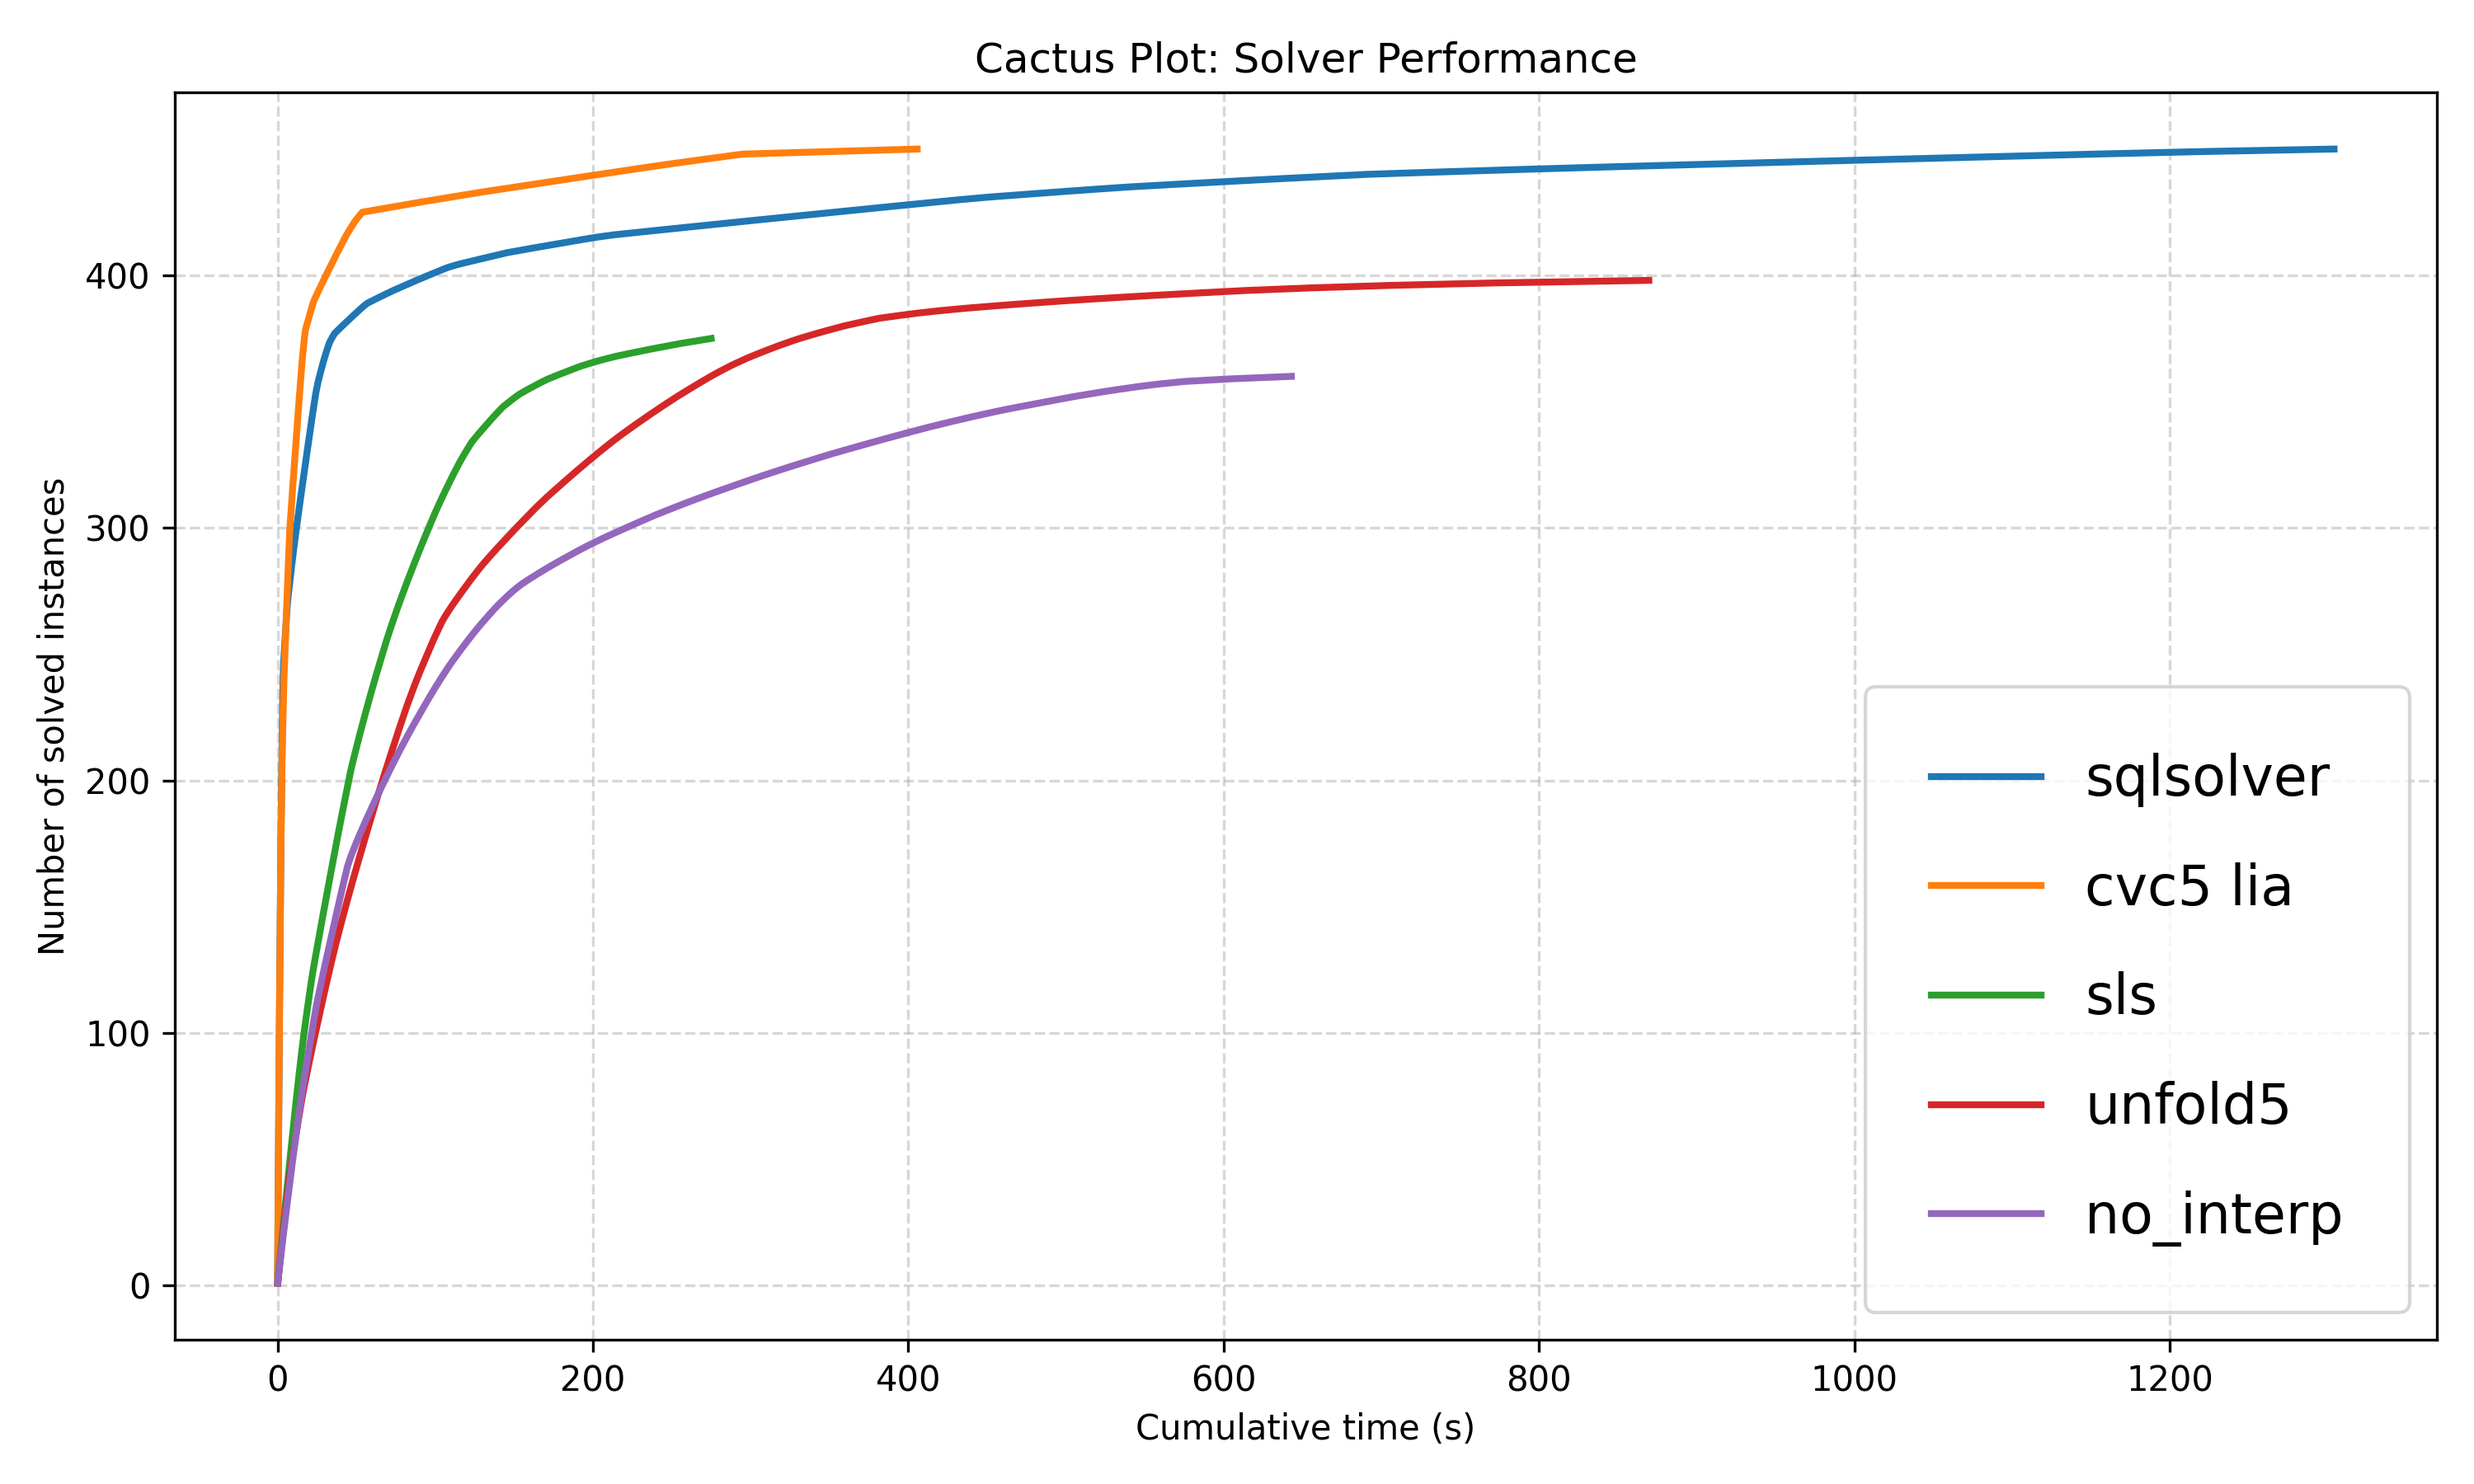
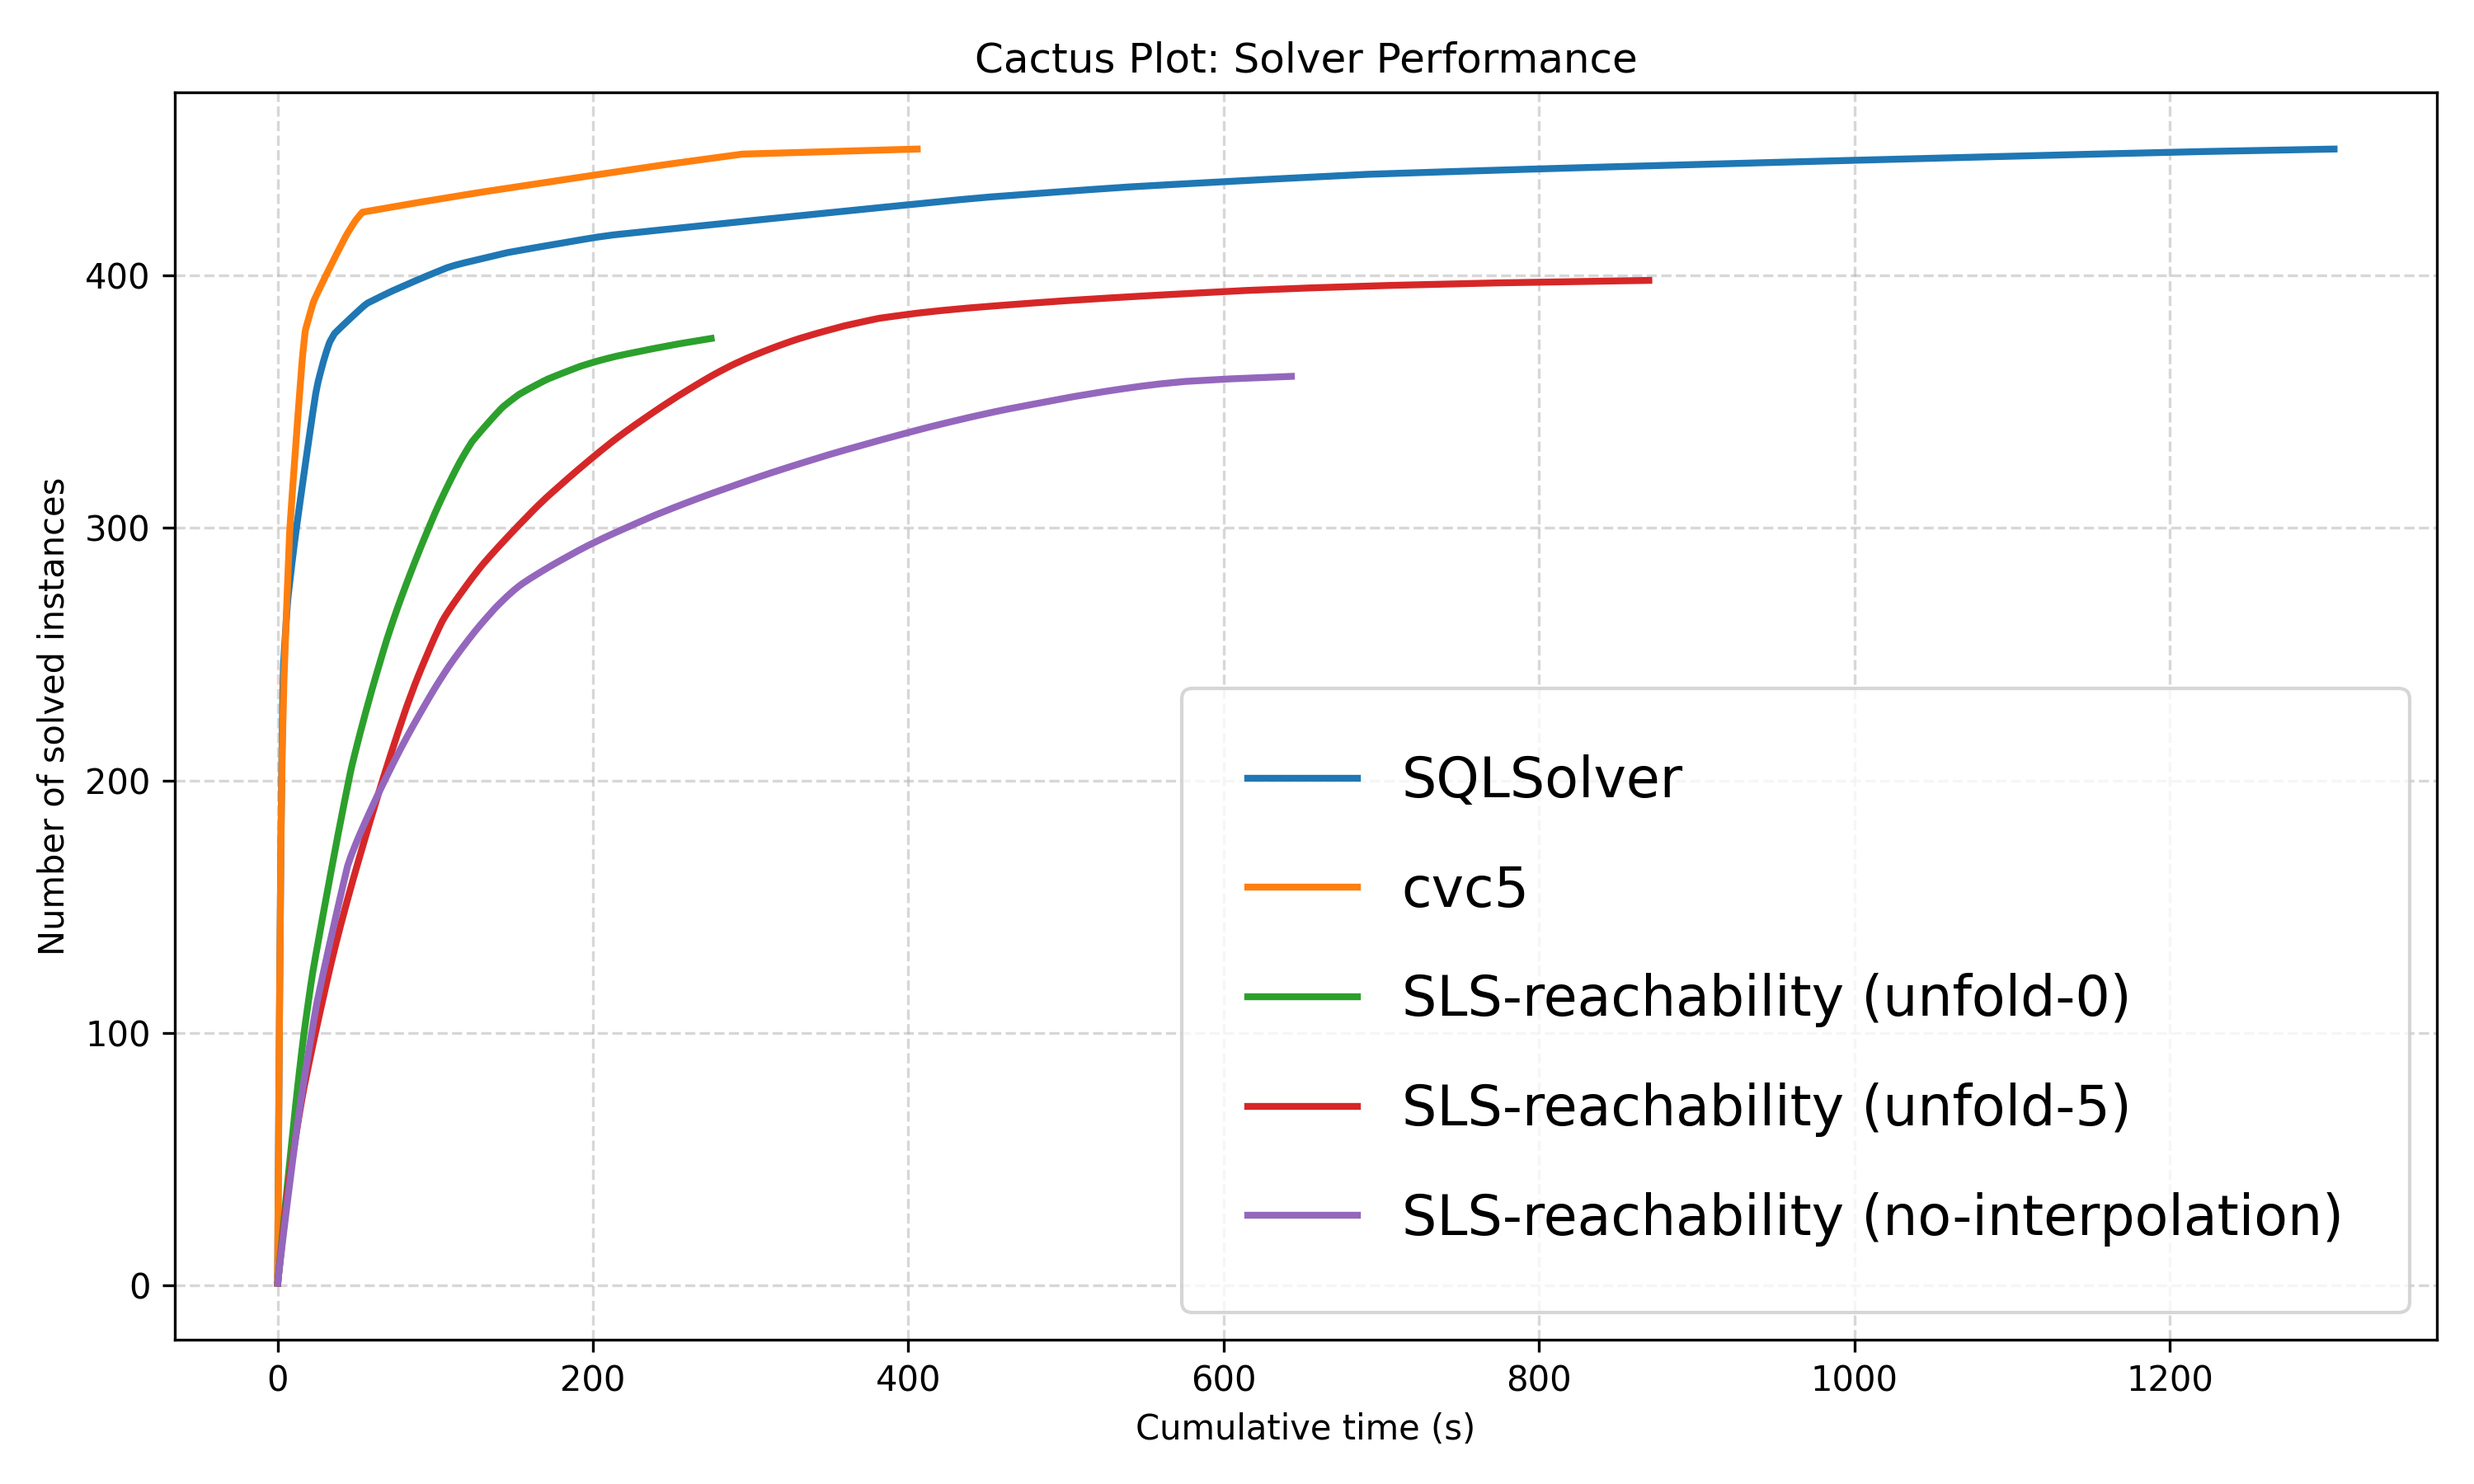
plot

diff --git a/plot.py b/plot.py
@@ -2,66 +2,70 @@ import pandas as pd
 import numpy as np
 import matplotlib.pyplot as plt
 
-# === Load CSV ===
-df = pd.read_csv("comparison.csv")
+def plot(source_file, output1, output2):   
+    # === Load CSV ===
+    df = pd.read_csv(source_file)
 
-# === Filter out timeouts ===
-df_sql_solver = df[df["sqlsolver result"].astype(str).str.strip() != "timeout"]
-df_sls = df[df["sls result"].astype(str).str.strip() != "timeout"]
-df_cvc5_lia = df[df["cvc5 lia result"].astype(str).str.strip() != "timeout"]
-# df_normaliz = df[df["lia normaliz result"].astype(str).str.strip() != "timeout"]
-df_unfold5 = df[df["unfold5 result"].astype(str).str.strip() != "timeout"]
-df_no_interp = df[df["no_interp result"].astype(str).str.strip() != "timeout"]
+    # === Filter out timeouts ===
+    df_sql_solver = df[df["sqlsolver result"].astype(str).str.strip() != "timeout"]
+    df_sls = df[df["sls result"].astype(str).str.strip() != "timeout"]
+    df_cvc5_lia = df[df["cvc5 lia result"].astype(str).str.strip() != "timeout"]
+    # df_normaliz = df[df["lia normaliz result"].astype(str).str.strip() != "timeout"]
+    df_unfold5 = df[df["unfold5 result"].astype(str).str.strip() != "timeout"]
+    df_no_interp = df[df["no_interp result"].astype(str).str.strip() != "timeout"]
 
-# === Extract and sort durations ===
-column_sql_solver = df_sql_solver["sqlsolver duration"].astype(float).sort_values().tolist()
-column_cvc5_lia = df_cvc5_lia["cvc5 lia duration"].astype(float).sort_values().tolist()
-column_sls = df_sls["sls duration"].astype(float).sort_values().tolist()
-# column_normaliz = df_normaliz["lia normaliz duration"].astype(float).sort_values().tolist()
-column_unfold5 = df_unfold5["unfold5 duration"].astype(float).sort_values().tolist()
-column_no_interp = df_no_interp["no_interp duration"].astype(float).sort_values().tolist()
+    # === Extract and sort durations ===
+    column_sql_solver = df_sql_solver["sqlsolver duration"].astype(float).sort_values().tolist()
+    column_cvc5_lia = df_cvc5_lia["cvc5 lia duration"].astype(float).sort_values().tolist()
+    column_sls = df_sls["sls duration"].astype(float).sort_values().tolist()
+    # column_normaliz = df_normaliz["lia normaliz duration"].astype(float).sort_values().tolist()
+    column_unfold5 = df_unfold5["unfold5 duration"].astype(float).sort_values().tolist()
+    column_no_interp = df_no_interp["no_interp duration"].astype(float).sort_values().tolist()
 
-# === Compute cumulative sums ===
-sql_solver_cum = np.cumsum(column_sql_solver)
-cvc5_cum = np.cumsum(column_cvc5_lia)
-sls_cum = np.cumsum(column_sls)
-# normaliz_cum = np.cumsum(column_normaliz)
-unfold5_cum = np.cumsum(column_unfold5)
-no_interp_cum = np.cumsum(column_no_interp)
+    # === Compute cumulative sums ===
+    sql_solver_cum = np.cumsum(column_sql_solver)
+    cvc5_cum = np.cumsum(column_cvc5_lia)
+    sls_cum = np.cumsum(column_sls)
+    # normaliz_cum = np.cumsum(column_normaliz)
+    unfold5_cum = np.cumsum(column_unfold5)
+    no_interp_cum = np.cumsum(column_no_interp)
 
-sql_solver_x = list(range(1, len(sql_solver_cum) + 1))
-cvc5_x = list(range(1, len(cvc5_cum) + 1))
-sls_x = list(range(1, len(sls_cum) + 1))
-# normaliz_x = list(range(1, len(normaliz_cum) + 1))
-unfold5_x = list(range(1, len(unfold5_cum) + 1))
-no_interp_x = list(range(1, len(no_interp_cum) + 1))
+    sql_solver_x = list(range(1, len(sql_solver_cum) + 1))
+    cvc5_x = list(range(1, len(cvc5_cum) + 1))
+    sls_x = list(range(1, len(sls_cum) + 1))
+    # normaliz_x = list(range(1, len(normaliz_cum) + 1))
+    unfold5_x = list(range(1, len(unfold5_cum) + 1))
+    no_interp_x = list(range(1, len(no_interp_cum) + 1))
 
-# === Plot ===
-plt.figure(figsize=(10, 6))
-plt.plot(sql_solver_cum, sql_solver_x, label="sqlsolver", linewidth=2)
-plt.plot(cvc5_cum, cvc5_x, label="cvc5 lia", linewidth=2)
-plt.plot(sls_cum, sls_x, label="sls", linewidth=2)
-# plt.plot(normaliz_cum, normaliz_x, label="normaliz", linewidth=2)
-plt.plot(unfold5_cum, unfold5_x, label="unfold5", linewidth=2)
-plt.plot(no_interp_cum, no_interp_x, label="no_interp", linewidth=2)
+    # === Plot ===
+    plt.figure(figsize=(10, 6))
+    plt.plot(sql_solver_cum, sql_solver_x, label="SQLSolver", linewidth=2)
+    plt.plot(cvc5_cum, cvc5_x, label="cvc5", linewidth=2)
+    plt.plot(sls_cum, sls_x, label="SLS-reachability (unfold-0)", linewidth=2)
+    # plt.plot(normaliz_cum, normaliz_x, label="normaliz", linewidth=2)
+    plt.plot(unfold5_cum, unfold5_x, label="SLS-reachability (unfold-5)", linewidth=2)
+    plt.plot(no_interp_cum, no_interp_x, label="SLS-reachability (no-interpolation)", linewidth=2)
 
-plt.xlabel("Cumulative time (s)")
-plt.ylabel("Number of solved instances")
-plt.title("Cactus Plot: Solver Performance")
-plt.grid(True, linestyle="--", alpha=0.5)
+    plt.xlabel("Cumulative time (s)")
+    plt.ylabel("Number of solved instances")
+    plt.title("Cactus Plot: Solver Performance")
+    plt.grid(True, linestyle="--", alpha=0.5)
 
-# === Magnified legend ===
-plt.legend(
-    fontsize=16,        # bigger text
-    markerscale=2.0,    # bigger line markers
-    borderpad=1.2,      # more padding inside box
-    labelspacing=1.0,   # more spacing between entries
-    frameon=True,
-)
+    # === Magnified legend ===
+    plt.legend(
+        fontsize=16,        # bigger text
+        markerscale=2.0,    # bigger line markers
+        borderpad=1.2,      # more padding inside box
+        labelspacing=1.0,   # more spacing between entries
+        frameon=True,
+    )
 
-plt.tight_layout()
+    plt.tight_layout()
 
-# === Save to file ===
-plt.savefig("cactus_plot.png", dpi=300)
+    # === Save to file ===
+    plt.savefig(output1, dpi=300)
+    plt.savefig(output2, dpi=300)
 
-plt.show()
+
+plot("comparison.csv", "cactus_plot.png", "/home/mudathir/all/paper-fmcad26-liastar/images/cactus_plot.png")
+plot("comparison_speed.csv", "cactus_plot_speed.png", "/home/mudathir/all/paper-fmcad26-liastar/images/cactus_plot_speed.png")

diff --git a/fmcad_example.py b/fmcad_example.py
@@ -1,0 +1,34 @@
+from utils import *
+from lia_star_solver import *
+import unittest
+
+set_vars = [x, y]
+
+
+def phi(x, y):
+    return x + y
+
+
+class TestLinearSet(unittest.TestCase):
+
+    def test_example1(self):
+        A = toMacro([x == x])
+        B = toMacro([y >= 3 - x, y >= x - 3])
+        A.args = set_vars + [a for a in A.args if a not in set_vars]
+        B.args = set_vars + [b for b in B.args if b not in set_vars]
+        sls = semilinear.SLS(B, set_vars, len(B.args))
+        sls.reduce()
+        while sls.augment():
+            sls.reduce()
+            print(sls.getSLS())
+            continue
+
+        X = findSolution(A, sls)
+        print(f"solution: {X}")
+        if X:
+            result = returnSolution(list(zip(A.args, X)), sls)
+            print(f"result: {result}")
+
+
+if __name__ == "__main__":
+    unittest.main()
